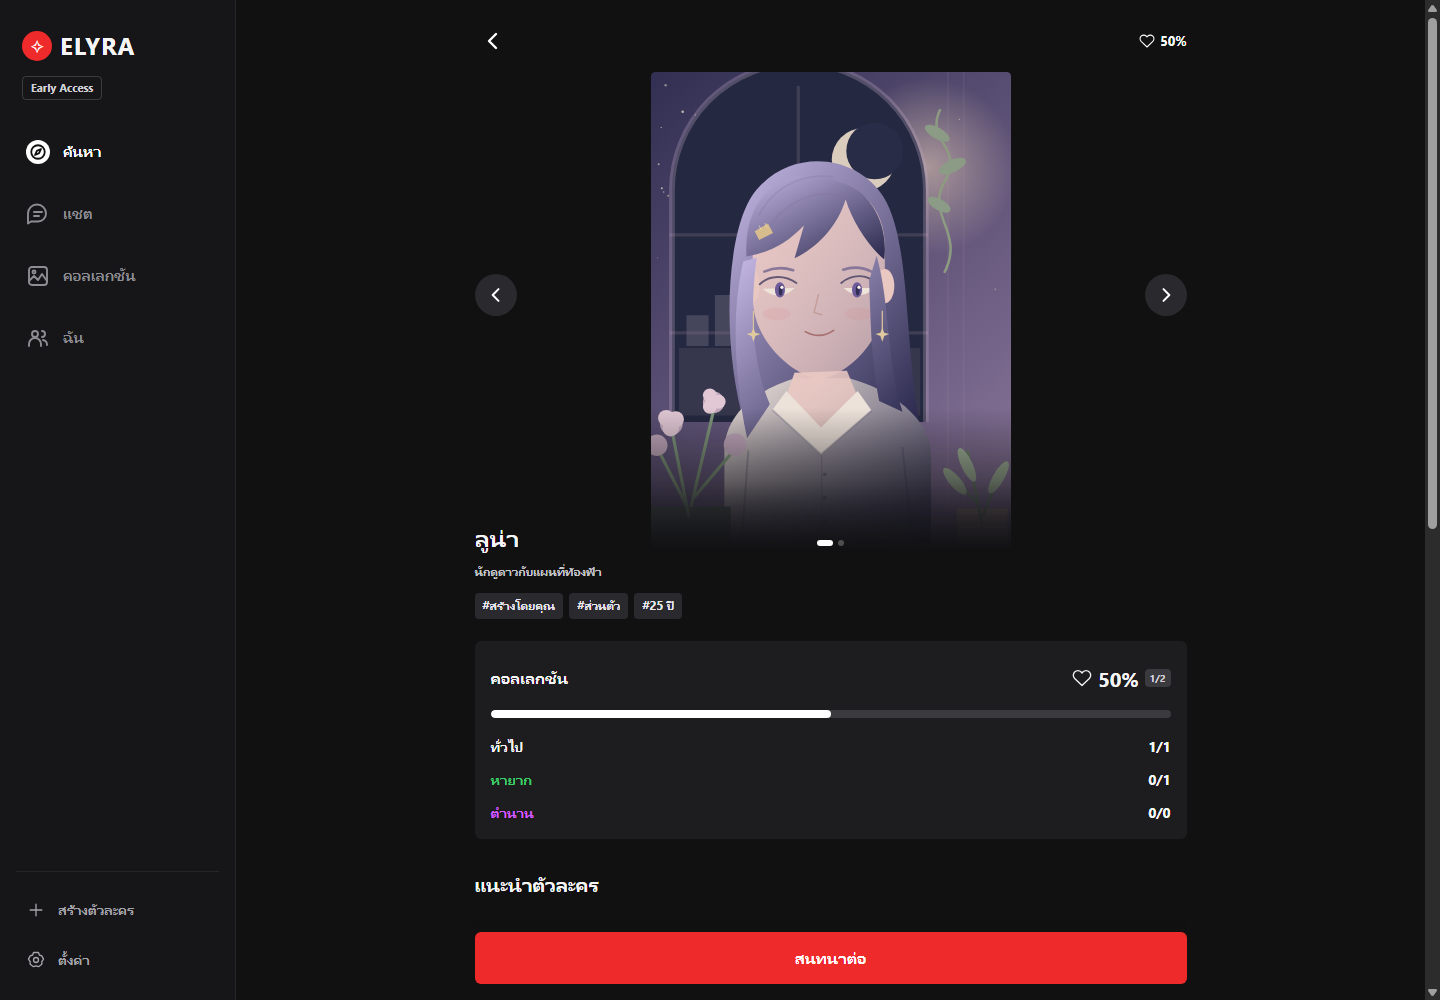
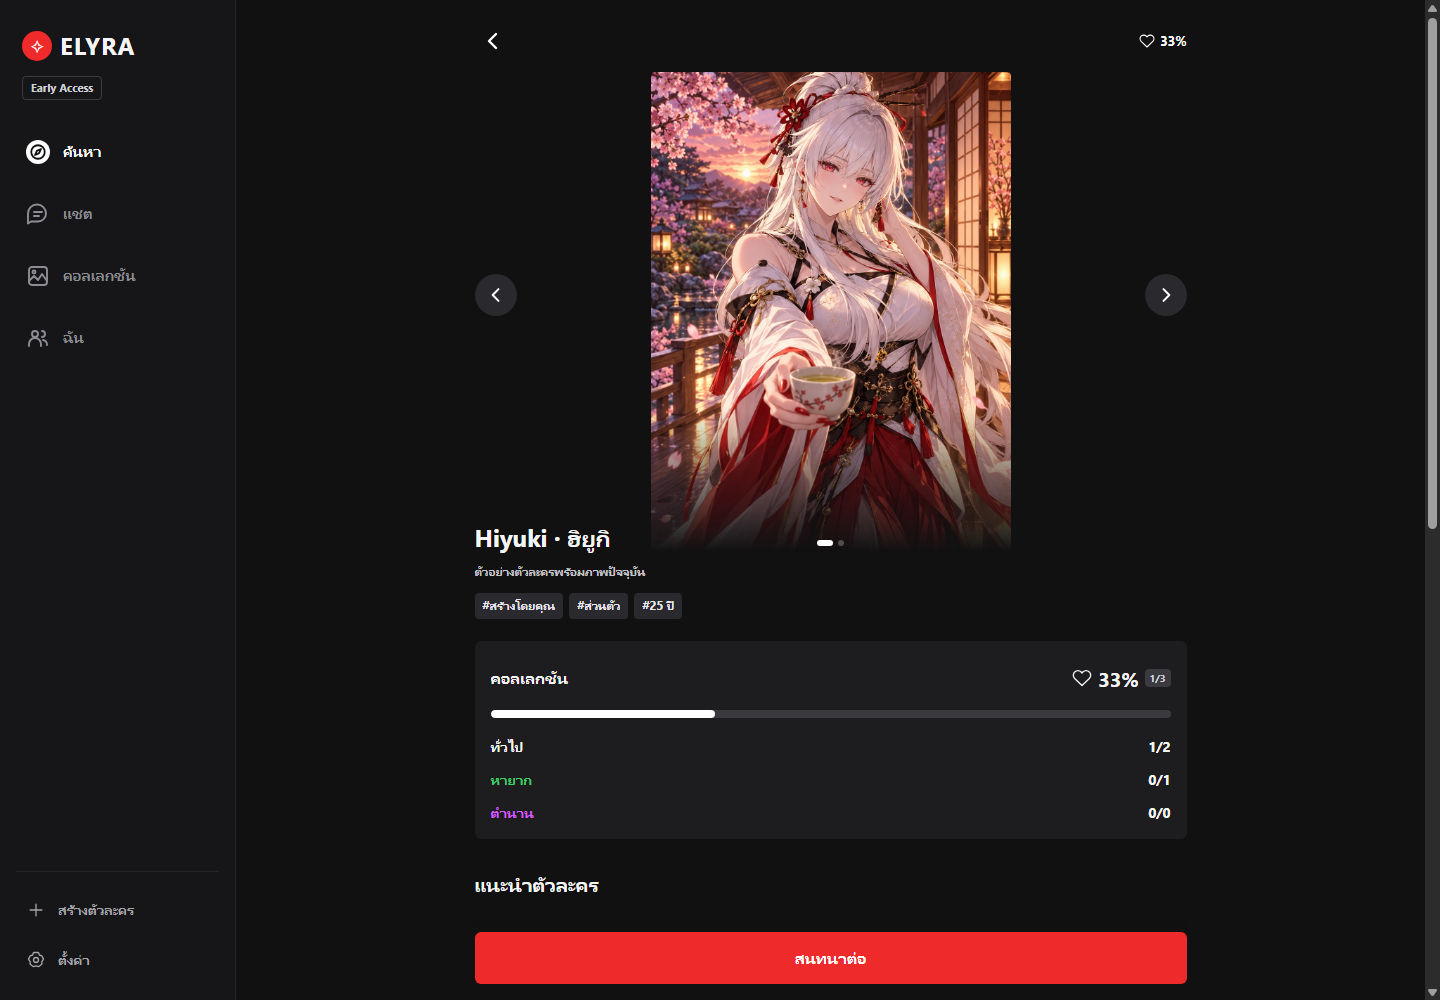
docs: refresh screenshots with current character artwork

diff --git a/tools/capture_readme.py b/tools/capture_readme.py
@@ -2,10 +2,15 @@
 
 Run from the repository: python tools/capture_readme.py
 Requires Windows Chrome at its standard installation path. Uses a disposable
-profile and database under .qa; never opens the user's database or loads .env.
+profile and database under .qa; never loads .env. Optional --artwork-db and
+--artwork-selection copy explicitly selected names/artwork through read-only SQL;
+no original persona, settings, rooms, messages or memories are copied.
 """
+import argparse
 import base64
+from contextlib import closing
 import json
+import sqlite3
 import subprocess
 import tempfile
 import threading
@@ -20,8 +25,44 @@ from elyra.media import validate_image
 from elyra.store import Store
 
 
+def selected_artwork(database, selection, store):
+    """Import only individually reviewed artwork into the disposable fixture."""
+    result = []
+    with closing(sqlite3.connect(Path(database).resolve().as_uri() + '?mode=ro', uri=True)) as source:
+        def copy_media(media_id):
+            row = source.execute('SELECT data FROM media WHERE id=?', (media_id,)).fetchone()
+            if not row:
+                raise ValueError('Selected artwork is missing')
+            return store.add_media(validate_image({'data':base64.b64encode(row[0]).decode()}))['id']
+
+        for item in json.loads(Path(selection).read_text(encoding='utf-8')):
+            if len(item.get('scene_ids', [])) > 3:
+                raise ValueError('Select at most three reviewed scenes per character')
+            row = source.execute('SELECT data FROM characters WHERE id=?', (item['character_id'],)).fetchone()
+            if not row:
+                raise ValueError('Selected character is missing')
+            current = json.loads(row[0])
+            scenes = []
+            for index, scene_id in enumerate(item.get('scene_ids', [])):
+                scene = next(s for s in current.get('scenes', []) if s['id'] == scene_id)
+                scenes.append({'id':f'publicscene{index}', 'media_id':copy_media(scene['media_id']),
+                               'description':['ต้อนรับกลับบ้านพร้อมชาร้อน','เตรียมอาหารเช้าด้วยกัน','อ่านหนังสือในห้องนั่งเล่น'][index],
+                               'tier':['common','common','rare'][index], 'min_turns':0})
+            result.append({'name':current['name'], 'art':'luna',
+                           'portrait_id':copy_media(current['portrait_id']), 'scenes':scenes,
+                           'subtitle':'ตัวอย่างตัวละครพร้อมภาพปัจจุบัน'})
+    return result
+
+
 def main():
-    output = ROOT / 'docs' / 'screenshots'
+    parser = argparse.ArgumentParser(description=__doc__)
+    parser.add_argument('--artwork-db', type=Path)
+    parser.add_argument('--artwork-selection', type=Path, help='JSON list of character_id and up to three reviewed scene_ids')
+    parser.add_argument('--output-dir', type=Path, default=ROOT / 'docs' / 'screenshots')
+    args = parser.parse_args()
+    if bool(args.artwork_db) != bool(args.artwork_selection):
+        parser.error('Both artwork options are required together')
+    output = args.output_dir
     output.mkdir(parents=True, exist_ok=True)
     (ROOT / '.qa').mkdir(exist_ok=True)
     with tempfile.TemporaryDirectory(prefix='readme-', dir=ROOT / '.qa', ignore_cleanup_errors=True) as scratch:
@@ -56,23 +97,31 @@ def main():
             for asset in ('luna-first.svg', 'luna-ritual.svg'):
                 encoded = cdp.evaluate("""(async()=>{const i=new Image();i.src='/assets/""" + asset + """';await i.decode();const c=document.createElement('canvas');c.width=720;c.height=960;c.getContext('2d').drawImage(i,0,0,720,960);return c.toDataURL('image/png').split(',')[1]})()""")
                 media.append(store.add_media(validate_image({'data':encoded}))['id'])
+            samples = (selected_artwork(args.artwork_db, args.artwork_selection, store) if args.artwork_db else
+                       [{'name':name,'art':art,'subtitle':subtitle} for name,art,subtitle in
+                        [('ลูน่า','luna','นักดูดาวกับแผนที่ท้องฟ้า'),('ไค','kael','การเดินทางครั้งใหม่ของนักสำรวจ'),
+                         ('มีรา','mira','ร้านกาแฟเล็ก ๆ ในวันฝนพรำ'),('เรน','ren','ปริศนาจากจดหมายฉบับหนึ่ง')]])
             characters = []
-            for name, art, subtitle in [('ลูน่า','luna','นักดูดาวกับแผนที่ท้องฟ้า'),('ไค','kael','การเดินทางครั้งใหม่ของนักสำรวจ'),('มีรา','mira','ร้านกาแฟเล็ก ๆ ในวันฝนพรำ'),('เรน','ren','ปริศนาจากจดหมายฉบับหนึ่ง')]:
+            for sample in samples:
+                name, art, subtitle = sample['name'], sample['art'], sample['subtitle']
                 characters.append(store.add_character(validate_character({
                     'name':name,'age':25,'art':art,'subtitle':subtitle,
                     'description':subtitle + ' — ตัวละครตัวอย่างสำหรับคู่มือ',
                     'personality':'อบอุ่น ช่างสังเกต มีความเห็นของตัวเอง ชอบแบ่งปันสิ่งที่ค้นพบ',
                     'backstory':'ดูแลหอดูดาวเล็ก ๆ และกำลังเตรียมคืนชมดาวสำหรับชุมชน',
-                    'greeting':'*ลูน่าวางแผนที่ดาวลงบนโต๊ะข้างหน้าต่าง* คืนนี้ฟ้าเปิดพอดี มาช่วยเตรียมกล้องดูดาวด้วยกันนะ',
+                    'greeting':f'*{name}วางถ้วยชาลงบนโต๊ะข้างหน้าต่าง* กลับมาแล้วเหรอ นั่งพักด้วยกันก่อนนะ',
                     'tips':'ลองเริ่มจากช่วยเตรียมกล้อง หรือชวนคุยเรื่องกลุ่มดาวที่ชอบ',
                     'scenes':[{'id':'observatory','media_id':media[0],'description':'นั่งวางแผนการดูดาวด้วยกัน','tier':'common','min_turns':0},
                               {'id':'nightwalk','media_id':media[1],'description':'เดินชมท้องฟ้าในยามค่ำคืน','tier':'rare','min_turns':0}],
+                    **sample,
                 })))
             room = store.create_room(characters[0]['id'],'demo','story-demo')
-            store.commit_turn(room['id'],'ฉันช่วยจัดกล้องให้ เราจะเริ่มดูดาวตรงไหนกันดี',
-                '*ลูน่าเลื่อนแผนที่เข้ามาใกล้ แล้วแตะจุดสว่างทางทิศเหนือ*\n\nเริ่มจากดาวเหนือก่อนนะ จะได้ใช้เป็นจุดอ้างอิง ฉันจะปรับขาตั้งให้ ส่วนแผนที่วางตรงนี้ได้เลย', 'demo','story-demo')
-            store.add_memory(room['id'],'เรานัดกันเตรียมกล้องที่หอดูดาวในคืนฟ้าเปิด')
-            store.set_scene(room['id'],'observatory')
+            store.commit_turn(room['id'],'วันนี้อากาศดีจัง มานั่งดื่มชาแล้วค่อยเลือกหนังสืออ่านกันนะ',
+                f'*{characters[0]["name"]}เลื่อนถ้วยชามาให้ แล้ววางหนังสือไว้ข้างโต๊ะ*\n\nได้เลย ฉันเตรียมชาไว้พอดี นั่งตรงนี้สิ แสงจากสวนกำลังสวยเลย', 'demo','story-demo')
+            store.add_memory(room['id'],'เรานัดดื่มชาและเลือกหนังสืออ่านด้วยกัน')
+            if not characters or not characters[0]['scenes']:
+                raise ValueError('The first selected character needs at least one reviewed scene')
+            store.set_scene(room['id'],characters[0]['scenes'][0]['id'])
             cdp.evaluate('refresh()')
 
             def capture(name, expression):
@@ -84,7 +133,9 @@ def main():
 
             capture('01-discover.png', "navigate('discover')")
             capture('02-character.png', f"navigate('character','{characters[0]['id']}')")
-            capture('03-editor.png', "document.querySelector('[data-action=\"create-character\"]').click()")
+            cdp.evaluate("navigate('characters')")
+            capture('03-editor.png', f"MvpUI.action({{dataset:{{action:'edit-character',id:'{characters[0]['id']}'}}}})")
+            capture('08-scene-editor.png', "document.querySelector('#scene-editor').scrollIntoView({block:'start'}); document.querySelector('#modal').scrollTop -= 160")
             cdp.evaluate("document.querySelector('#modal').close()")
             capture('04-chat.png', f"navigate('chat','{room['id']}')")
             capture('05-collection.png', "navigate('gallery')")
@@ -94,7 +145,8 @@ def main():
             errors = [e for e in cdp.events if e.get('method') == 'Runtime.exceptionThrown']
             if errors:
                 raise AssertionError(errors)
-            print(json.dumps({'screenshots':7,'model_calls':0,'private_data_used':False}))
+            print(json.dumps({'screenshots':8,'model_calls':0,'current_artwork':bool(args.artwork_db),
+                              'private_chat_used':False}))
         finally:
             if cdp:
                 cdp.sock.close()

diff --git a/README.md b/README.md
@@ -6,7 +6,7 @@
 
 ![หน้าเลือกตัวละคร ELYRA](docs/screenshots/01-discover.png)
 
-> ภาพคู่มือถ่ายจากแอปจริงด้วยฐานข้อมูลตัวอย่าง ใช้ SVG ของโปรเจกต์และบทสนทนาที่เขียนเพื่อสาธิต ไม่ใช่ข้อมูลส่วนตัวหรือผลทดสอบคุณภาพโมเดล ตัวละครในภาพไม่ได้ติดตั้งพร้อม Git clone และหน้าจอบางส่วนอาจต่างตามรุ่นโค้ด
+> อัปเดตภาพหน้าจอ 19 ตุลาคม 2026: ใช้รูปปัจจุบันของ Hiyuki, Firefly และยุนซออาในหน้าจอแอปจริง รวม 8 ภาพ โดยจัดห้องและข้อความขึ้นใหม่สำหรับคู่มือ จำนวนภาพสะสมและข้อความที่เห็นเป็นข้อมูลสาธิต ไม่ใช่ประวัติแชตจริง ตัวละครและภาพเหล่านี้ไม่ได้ติดตั้งพร้อม Git clone
 
 ## สารบัญ
 
@@ -41,7 +41,9 @@ python app.py
 
 กด **สร้างตัวละคร** ในเมนูด้านซ้ายหรือมุมบนของหน้าแรก เลือกรูปสำเร็จรูปหรืออัปโหลดรูป กรอกข้อมูล แล้วเลื่อนลงท้ายฟอร์มเพื่อบันทึก
 
-![แบบฟอร์มสร้างตัวละครและอัปโหลดรูป](docs/screenshots/03-editor.png)
+![แบบฟอร์มตัวละครพร้อมรูปปัจจุบันของ Hiyuki](docs/screenshots/03-editor.png)
+
+ภาพแสดงฟอร์มแก้ไขตัวละครที่มีรูปแล้ว การสร้างตัวละครใหม่ใช้ช่องข้อมูลชุดเดียวกัน
 
 | ช่อง | ใส่อะไร | ตัวอย่าง |
 | --- | --- | --- |
@@ -82,6 +84,8 @@ python app.py
 ### 4. เพิ่มภาพฉากและดูคอลเลกชัน
 
 ไปที่ **ฉัน → แก้ไขตัวละคร → ภาพตามสถานการณ์** เพิ่มภาพพร้อมคำอธิบายสถานที่ การกระทำ และอารมณ์ เช่น “นั่งอ่านแผนที่ดาวที่โต๊ะในหอดูดาว บรรยากาศสงบ” แล้วบันทึก
+
+![ตั้งค่าภาพตามสถานการณ์พร้อมรูปปัจจุบันของ Hiyuki](docs/screenshots/08-scene-editor.png)
 
 ระหว่างเล่น AI เลือกภาพที่เข้ากับเรื่อง ภาพจะแสดงเป็นพื้นหลังและสะสมเมื่อปรากฏครั้งแรก **ไม่ได้ปลดล็อกตามจำนวน 1/3/6 รอบแล้ว** เปอร์เซ็นต์ความคืบหน้าทั่วไปในห้องไม่ใช่จำนวนภาพสะสม ให้ดูจำนวนภาพในคอลเลกชันแยกต่างหาก
 
@@ -298,4 +302,10 @@ python -m compileall -q app.py elyra tools
 python tools/capture_readme.py
 ```
 
-สคริปต์ใช้ Chrome headless พร้อม profile/database ชั่วคราวใน `.qa` ไม่อ่านฐานข้อมูลผู้ใช้ ไม่โหลด `.env` และไม่ส่งแชตไปโมเดล ภาพอยู่ใน `docs/screenshots/` ให้เปิดตรวจก่อน commit สคริปต์ browser QA รุ่นเก่าบางตัวอ้าง selector ก่อนปรับ UI ควรตรวจให้ตรงหน้าจอปัจจุบันก่อนใช้
+ค่าเริ่มต้นใช้ SVG และข้อมูลตัวอย่างในฐานข้อมูลแยก หากต้องการภาพปัจจุบัน ให้เลือกเฉพาะรูปที่ตรวจแล้วผ่านไฟล์ JSON ส่วนตัว โดยสมาชิกแต่ละรายการมี `character_id` และ `scene_ids` (ไม่เกินสามฉาก; ตัวละครแรกต้องมีอย่างน้อยหนึ่งฉาก) แล้วรัน:
+
+```powershell
+python tools/capture_readme.py --artwork-db .data/elyra.db --artwork-selection .qa/readme-selection.json
+```
+
+โหมดนี้อ่านเฉพาะชื่อและรูปที่เลือกด้วย SQLite read-only แล้วคัดลอกไปฐานข้อมูลสาธิต ไม่คัดลอกบุคลิกจริง ห้อง ข้อความ ความจำ หรือการตั้งค่าผู้ใช้ สคริปต์ใช้ Chrome headless กับ profile/database ชั่วคราวใน `.qa` ไม่โหลด `.env` และไม่ส่งแชตไปโมเดล ภาพอยู่ใน `docs/screenshots/` ให้เปิดตรวจก่อน commit; ใช้ `--output-dir` เพื่อเปลี่ยนโฟลเดอร์ปลายทาง สคริปต์ browser QA รุ่นเก่าบางตัวอ้าง selector ก่อนปรับ UI ควรตรวจให้ตรงหน้าจอปัจจุบันก่อนใช้
